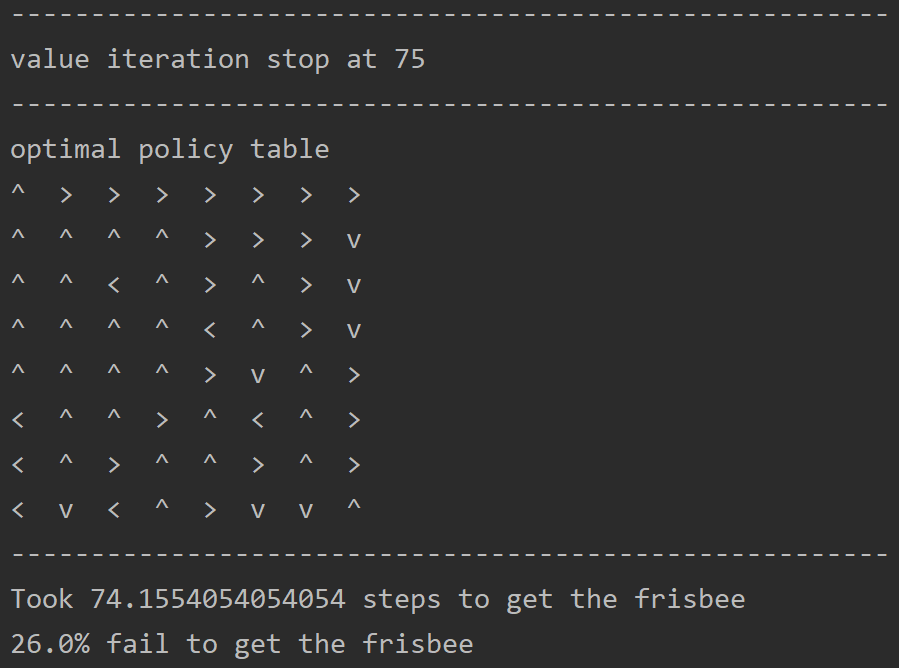
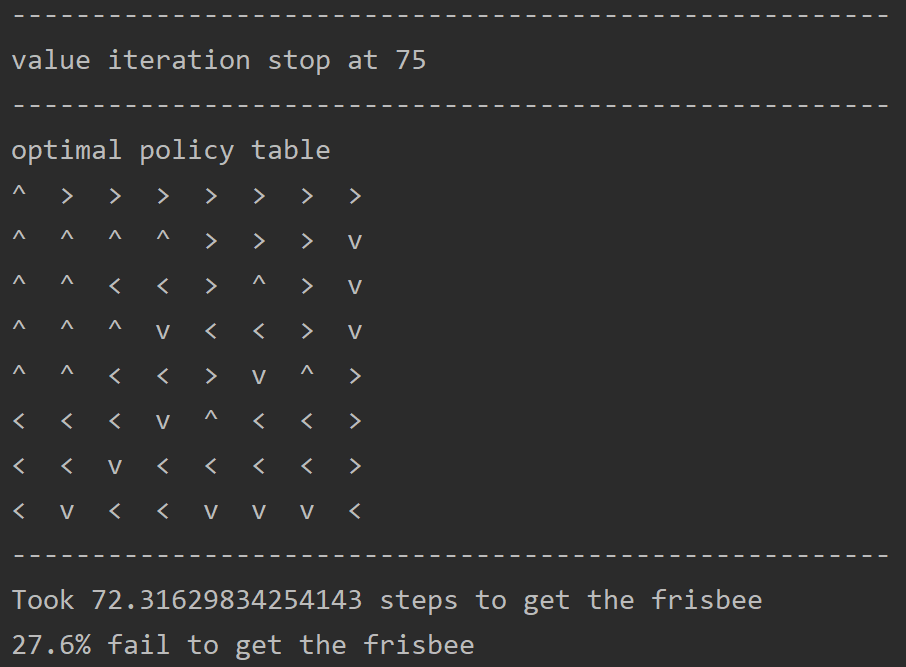
# first commit

diff --git a/Value_Iteration.py b/Value_Iteration.py
@@ -86,7 +86,7 @@ def value_iteration(env, max_iter=10000, gamma=0.9):
                 for k in range(len(env.P[i][j])):
                     prob, next_state, reward, done = env.P[i][j][k]
                     val += prob * (reward + gamma * state_values_[next_state])
-                if val >= state_values[i]:
+                if val > state_values[i]:
                     state_values[i] = val
                     opt_policy[i] = j
 
